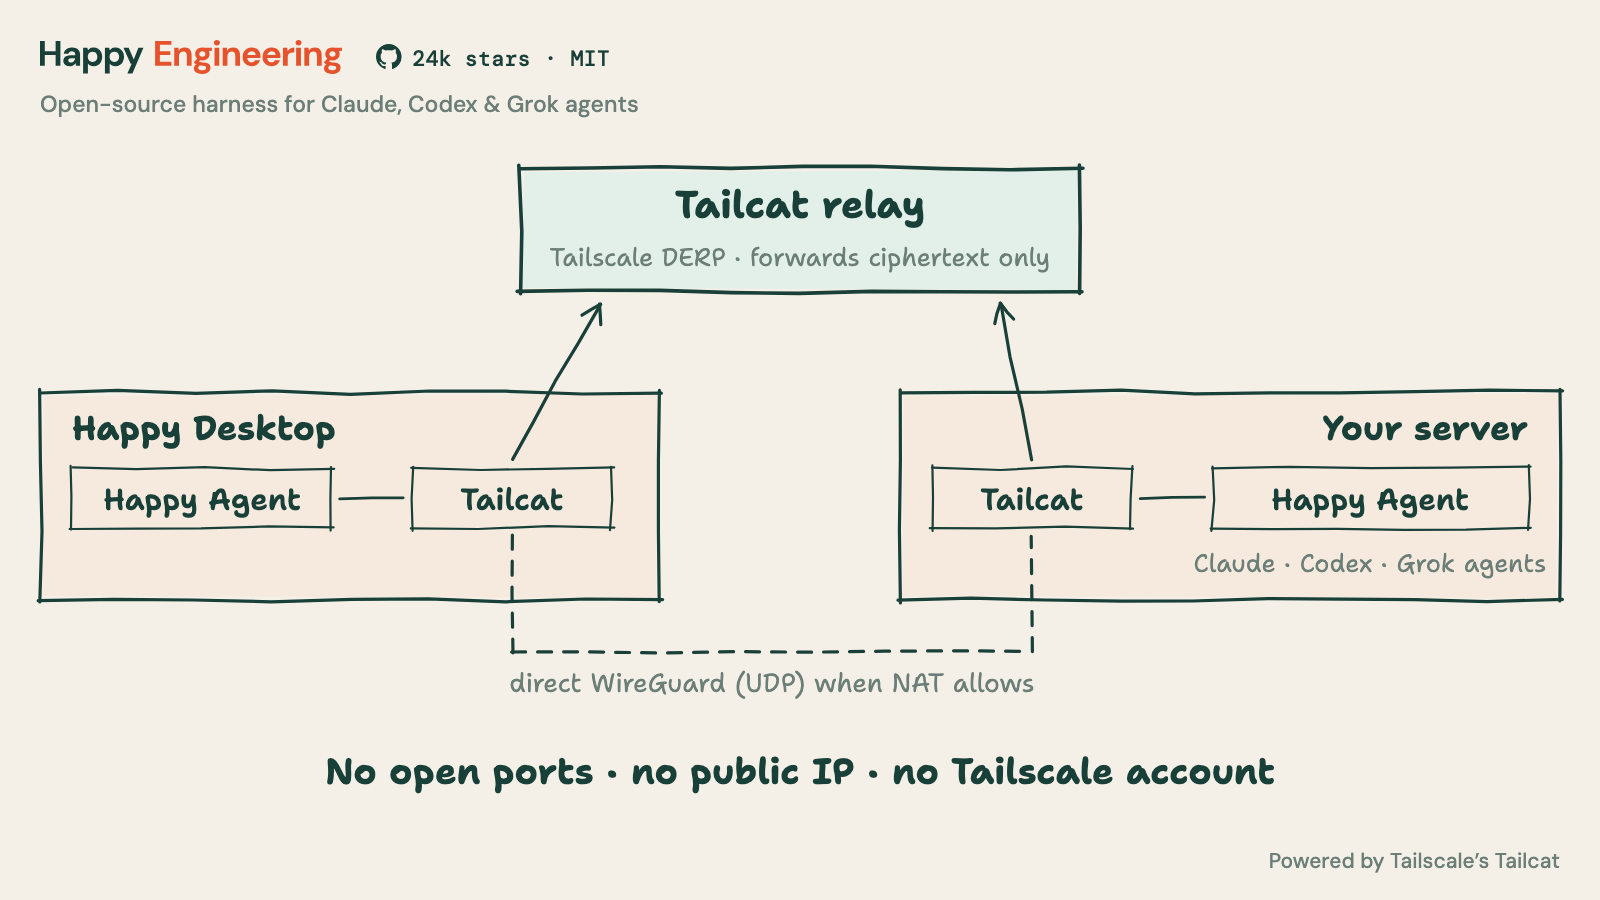
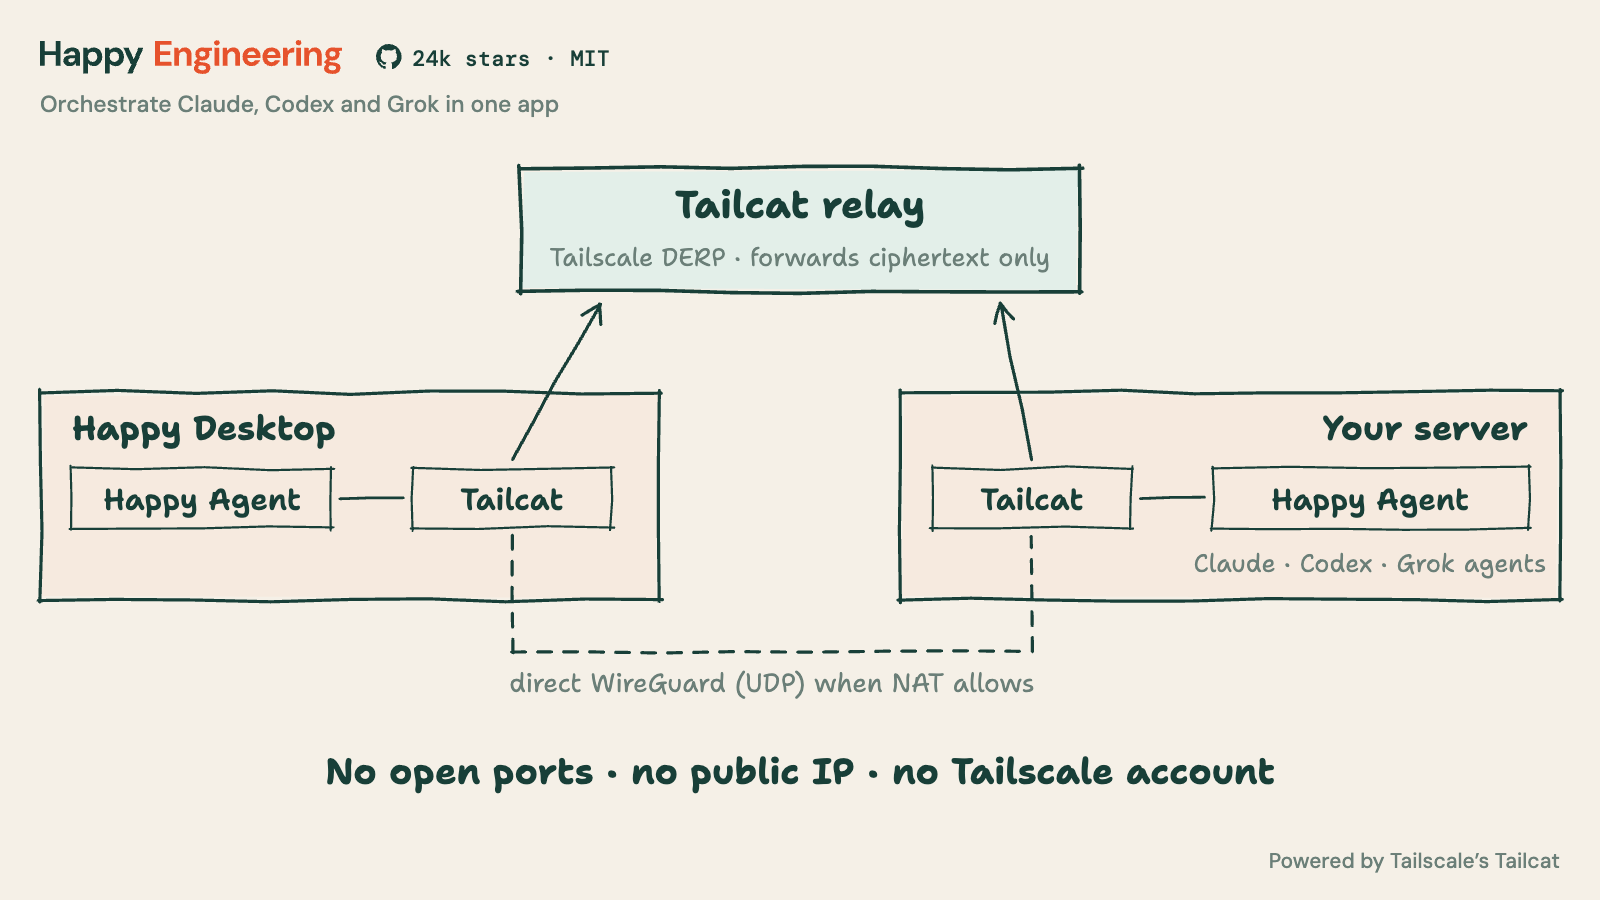
Update Tailcat share image descriptor

Changed region(s): [[0.0312, 0.0933, 0.4062, 0.1244]]

diff --git a/notes/diagram-pngs.py b/notes/diagram-pngs.py
@@ -153,7 +153,7 @@ def tailcat_x(browser, head):
     # Beside the wordmark, as in the site header: the GitHub mark and a plain count, no pill.
     o.append(f'<path transform="translate(188 22) scale(.8)" d="{GITHUB_MARK}" fill="{INK}"/>')
     o.append(text(206, 33, f"{GITHUB_STARS} stars · MIT", 11, INK, 500, "start", "DM Mono"))
-    o.append(text(20, 56, "Open-source harness for Claude, Codex & Grok agents", 11.5, MUTED, 500, "start", "DM Sans"))
+    o.append(text(20, 56, "Orchestrate Claude, Codex and Grok in one app", 11.5, MUTED, 500, "start", "DM Sans"))
 
     # Tailscale runs the relay; it only forwards.
     o.append(rect(260, 84, 280, 62, 1.8, INK, MINT))
